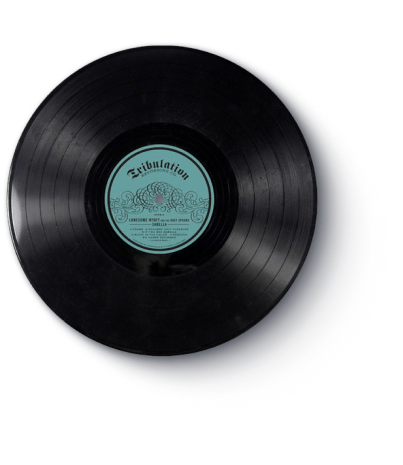
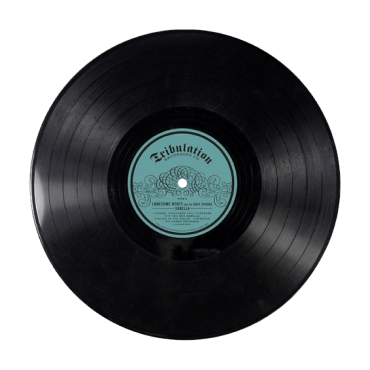
feat: add component Advantages

diff --git a/light/src/components/Requests/Requests.css b/light/src/components/Requests/Requests.css
@@ -1,0 +1,138 @@
+.requests {
+  width: 100%;
+  padding: 114px 0 850px;
+}
+
+.requests__conteiner {
+  display: grid;
+  grid-template-columns:  repeat(3, 1fr);
+  grid-template-rows: repeat(auto-fit, minmax(230px, 1fr));
+  grid-template-areas:
+    "title title ."
+    ". . ."
+    "card . ."
+    "card . .";
+  grid-gap: 20px;
+}
+
+.title {
+  font-size: 64px;
+  font-weight: 700;
+  font-family: var(--accent-font), 'Times New Roman', Times, serif;
+  max-width: 886px;
+  grid-area: title;
+}
+
+.card {
+  background-color: var(--card-color);
+  display: flex;
+  justify-content: center;
+  align-items: center;
+  width: 100%;
+  height: 100%;
+  padding: 30px;
+}
+
+.requests__card {
+  background-color: var(--card-color);
+  display: flex;
+  justify-content: center;
+  align-items: center;
+  width: 100%;
+  height: 100%;
+  padding: 30px;
+}
+
+.requests__card:nth-child(2) {
+  width: 230px;
+  height: 204px;
+  border-radius: 0 0 50% 50%;
+  align-items: baseline;
+  justify-self: flex-end;
+  margin: 0 0 59px 0;
+  box-shadow:
+  63px -18px 26px rgba(58, 63, 74, 1%),
+  36px -10px 22px rgba(58, 63, 74, 5%),
+  16px -4px 16px rgba(58, 63, 74, 9%),
+  4px -1px 9px rgba(58, 63, 74, 10%);
+}
+
+.requests__card:nth-child(3) {
+  max-width: 425px;
+  height: 398px;
+  box-shadow:
+  127px 44px 54px rgba(58, 63, 74, 3%),
+  71px 25px 45px rgba(58, 63, 74, 9%),
+  32px 11px 34px rgba(58, 63, 74, 15%),
+  8px 3px 19px rgba(58, 63, 74, 18%);
+}
+
+.requests__card:nth-child(4) {
+  max-width: 467px;
+  max-height: 325px;
+  border-radius: 0 162.5px 162.5px 0;
+  justify-self: center;
+  box-shadow:
+    34px 10px 14px rgba(58, 63, 74, 3%),
+    19px 6px 12px rgba(58, 63, 74, 9%),
+    8px 2px 9px rgba(58, 63, 74, 15%),
+    2px 1px 5px rgba(58, 63, 74, 18%);
+}
+
+.requests__card:nth-child(5) {
+  max-width: 414px;
+  max-height: 325px;
+  justify-self: flex-end;
+  box-shadow:
+    119px 41px 50px rgba(58, 63, 74, 3%),
+    67px 23px 43px rgba(58, 63, 74, 9%),
+    30px 10px 32px rgba(58, 63, 74, 15%),
+    7px 3px 17px rgba(58, 63, 74, 18%);
+}
+
+.requests__card:nth-child(6) {
+  max-width: 467px;
+  height: 200px;
+  justify-self: center;
+  box-shadow:
+    179px 82px 79px rgba(58, 63, 74, 4%),
+    101px 46px 67px rgba(58, 63, 74, 13%),
+    45px 21px 49px rgba(58, 63, 74, 22%),
+    11px 5px 27px rgba(58, 63, 74, 26%);
+}
+
+.requests__card:last-child {
+  grid-area: card;
+  margin: 60px 0 0;
+  max-width: 425px;
+  height: 457px;
+  border-radius: 0 0 0 190px;
+  box-shadow:
+    58px 211px 87px rgba(58, 63, 74, 1%),
+    32px 119px 74px rgba(58, 63, 74, 5%),
+    34px 53px 55px rgba(58, 63, 74, 9%),
+    4px 13px 30px rgba(58, 63, 74, 10%);
+  position: relative;
+  z-index: 2;
+}
+
+.requests__card:last-child::before {
+  outline: red 1px solid;
+  content: '';
+  position: absolute;
+  bottom: 0;
+  right: -200px;
+  max-width: 370px;
+  max-height: 370px;
+  width: 100%;
+  height: 100%;
+  background-image: url(../../images/record-1.png);
+  background-repeat: no-repeat;
+  background-position: 50%;
+  background-size:cover;
+  z-index: 1;
+}
+
+.requests__text {
+  max-width: 270px;
+}

diff --git a/light/src/components/Advantages/Advantages.jsx b/light/src/components/Advantages/Advantages.jsx
@@ -1,0 +1,32 @@
+import './Advantages.css';
+
+export default function Advantages() {
+  return(
+    <section className='advantages'>
+      <div className='advantages__conteiner conteiner'>
+        <h3 className='advantages__title title'>Обучаясь у нас вы получаете:</h3>
+        <button className='advantages__button'>Получить подарок</button>
+        <div className='advantages__card card'>
+          <h4 className='advantages__card-title subtitle'>Гибкий график</h4>
+          <p className='advantages__card-text'>Мы готовы предложить гибкий график занятий, который будет индивидуально адаптирован под ваши потребности и расписание.</p>
+        </div>
+        <div className='advantages__card card'>
+          <h4 className='advantages__card-title subtitle'>Коучинговый подход</h4>
+          <p className='advantages__card-text'>Мы не учим языку, мы объясняем как его понять. Зачем нужны времена и предлоги, что американцы используют в языке каждый день и что зачем нужно. Только так можно понять язык и заговорить на нем</p>
+          <a className='advantages__card-link' href="#">Подробнее</a>
+        </div>
+        <div className='advantages__card card'>
+          <h4 className='advantages__card-title subtitle'>Не просто учителя</h4>
+          <p className='advantages__card-text'>Наши преподаватели - профессиональные переводчики. С опытом работы в разных сферах</p>
+          <a className='advantages__card-link' href="#">Подробнее</a>
+        </div>
+        <div className='advantages__card card'>
+          <h4 className='advantages__card-title subtitle'>Эффективное обучение</h4>
+          <p className='advantages__card-text'>Мы не обещаем нереальные результаты за короткий срок, а выстраиваем обучение таким образом, чтобы ваши знания были качественными и полными, а вам было интересно обучаться</p>
+        </div>
+      </div>
+    </section>
+  )
+}
+
+

diff --git a/light/src/components/Requests/Requests.jsx b/light/src/components/Requests/Requests.jsx
@@ -1,0 +1,31 @@
+import './Requests.css';
+
+export default function Requests() {
+  return(
+    <section className='requests'>
+      <div className='requests__conteiner conteiner'>
+        <h3 className='title'>Каждый из вас сталкивался с такими проблемами, как:</h3>
+        <div className='requests__card'>
+          <p className='requests__text'>Планируете путешествовать или переехать в другую страну, но нет постоянной практики</p>
+        </div>
+        <div className='requests__card'>
+          <p className='requests__text'>Планируете путешествовать или переехать в другую страну, но нет постоянной практики</p>
+        </div>
+        <div className='requests__card'>
+          <p className='requests__text'>Планируете путешествовать или переехать в другую страну, но нет постоянной практики</p>
+        </div>
+        <div className='requests__card'>
+          <p className='requests__text'>Планируете путешествовать или переехать в другую страну, но нет постоянной практики</p>
+        </div>
+        <div className='requests__card'>
+          <p className='requests__text'>Планируете путешествовать или переехать в другую страну, но нет постоянной практики</p>
+        </div>
+        <div className='requests__card'>
+          <p className='requests__text'>Планируете путешествовать или переехать в другую страну, но нет постоянной практики</p>
+        </div>
+      </div>
+    </section>
+  )
+}
+
+

diff --git a/light/src/components/Advantages/Advantages.css b/light/src/components/Advantages/Advantages.css
@@ -1,0 +1,78 @@
+.advantages__conteiner {
+  display: grid;
+  grid-template-columns:  repeat(3, 1fr);
+  grid-template-rows: repeat(auto-fil, minmax(251px, 1fr));
+  grid-template-areas:
+    "title title btn"
+    "card1 . btn"
+    "card1 card2 ."
+    "card3 card2 card4"
+    "card3 . card4";
+  grid-gap: 70px;
+}
+
+.advantages__title {
+  max-width: 1000px;
+}
+
+.advantages__button {
+  grid-area: btn;
+  grid-row: span 2;
+  width: 100%;
+  height: 100%;
+  max-width: 196px;
+  max-height: 196px;
+  border-radius: 50%;
+  border: none;
+  background-color: #F9F3EF;
+  position: relative;
+  justify-self: center;
+  align-self: center;
+}
+
+.advantages__button::after {
+  content: '';
+  position: absolute;
+  top: -30px;
+  left: -30px;
+  width: calc(100% + 60px);
+  height: calc(100% + 60px);
+  border: 1px solid black;
+  border-radius: 50%;
+}
+
+.advantages__card {
+  display: flex;
+  flex-direction: column;
+  align-items: baseline;
+  width: 100%;
+  height: 100%;
+  min-height: 251px;
+  max-width: 436px;
+  min-width: 200px;
+}
+
+.advantages__card:nth-child(3) {
+  grid-area: card1;
+}
+
+.advantages__card:nth-child(4) {
+  grid-area: card2;
+}
+
+.advantages__card:nth-child(5) {
+  grid-area: card3;
+}
+
+.advantages__card:nth-child(6) {
+  grid-area: card4;
+}
+
+.subtitle {
+  font-size: 24px;
+  font-weight: 400;
+}
+
+.advantages__card-text {
+  margin: 30px 0 12px;
+}

diff --git a/light/src/components/Academy/Academy.css b/light/src/components/Academy/Academy.css
@@ -1,22 +1,24 @@
 .academy {
-  margin: 187px 70px 0;
+  margin: 187px auto 0;
   max-width: 1460px;
   width: 100%;
-  margin: 187px auto 0;
+  /* margin: 187px auto 0; */
 }
 
-.academy__conteiner {
+.conteiner {
   margin: 0 70px;
 }
 
 .academy__title-first {
   font-family: var(--title-font), sans-serif;
-  font-size: 5rem;
+  /* font-size: clamp(1.875rem, 1.0129rem + 4.3103vw, 5rem); */
+  font-size: 80px;
   font-weight: 200;
 }
 
 .academy__title-second {
   font-family: var(--accent-font), 'Times New Roman', Times, serif;
+  /* font-size: clamp(2.5rem, 1.4655rem + 5.1724vw, 6.25rem); */
   font-size: 100px;
   margin: 48px 0 0 51px;
 }
@@ -30,6 +32,7 @@
 .academy__box-images {
   justify-content: space-between;
   max-width: 1460px;
+  width: 100%;
   display: flex;
   align-items: flex-start;
 }
@@ -51,7 +54,7 @@
 
 .academy__image {
   margin: 30px 0 0 0;
-  width: 53%;
+  width: 39.74vw;
 }
 
 .academy__button-line::after {

diff --git a/light/src/components/Header/Header.css b/light/src/components/Header/Header.css
@@ -5,7 +5,7 @@
   position: relative;
 }
 
-.conteiner {
+.header__conteiner {
   padding: 77px 0 0;
   margin: 0 70px;
   display: flex;
@@ -27,7 +27,6 @@
   display: grid;
   grid-template-columns:  minmax(110px, 1fr) minmax(198px, 1fr) minmax(115px, 1fr) repeat(3, minmax(75px, 80px));
   grid-template-rows: 1fr;
-  gap: 0px 0px;
   grid-template-areas:
     ". . . . . .";
   grid-gap: 20px;
@@ -79,7 +78,7 @@
   display: block;
   background-color: var(--font-color);
   position: absolute;
-  right: 0;
+  right: 70;
   height: 4px;
   width: 30px;
   transition: transform 1s cubic-bezier(0.23, 1, 0.32, 1);

diff --git a/light/src/components/App.js b/light/src/components/App.js
@@ -1,6 +1,8 @@
 import './App.css';
 import Header from './Header/Header';
 import Academy from './Academy/Academy';
+import Requests from './Requests/Requests';
+import Advantages from './Advantages/Advantages';
 
 function App() {
   return (
@@ -8,6 +10,8 @@ function App() {
       <Header/>
       <main className='main'>
         <Academy/>
+        <Requests/>
+        <Advantages/>
       </main>
     </>
   );

diff --git a/light/src/components/Academy/Academy.jsx b/light/src/components/Academy/Academy.jsx
@@ -4,7 +4,7 @@ import IMAGE_PEOPLE from '../../images/firstImagePeople.png'
 export default function Academy() {
   return(
     <section className='academy'>
-      <div className='academy__conteiner'>
+      <div className='conteiner'>
         <div className='academy__box'>
           <h1 className='academy__title-first'>
             АКАДЕМИЯ

diff --git a/light/src/components/Header/Header.jsx b/light/src/components/Header/Header.jsx
@@ -28,7 +28,7 @@ export default function Header() {
 
   return(
     <header className='header'>
-      <div className='conteiner'>
+      <div className='header__conteiner'>
         <ImageLogoSVG
           baseColor= '#00b0b1'
           accentColor= '#2D2019'

diff --git a/light/src/components/App.css b/light/src/components/App.css
@@ -55,6 +55,7 @@ ol {
   --main-accent-font-weight: 500;
   --main-title-font-weight: 700;
   --font-color: #2D2019;
+  --card-color: #F2E5D9;
 }
 
 *{
